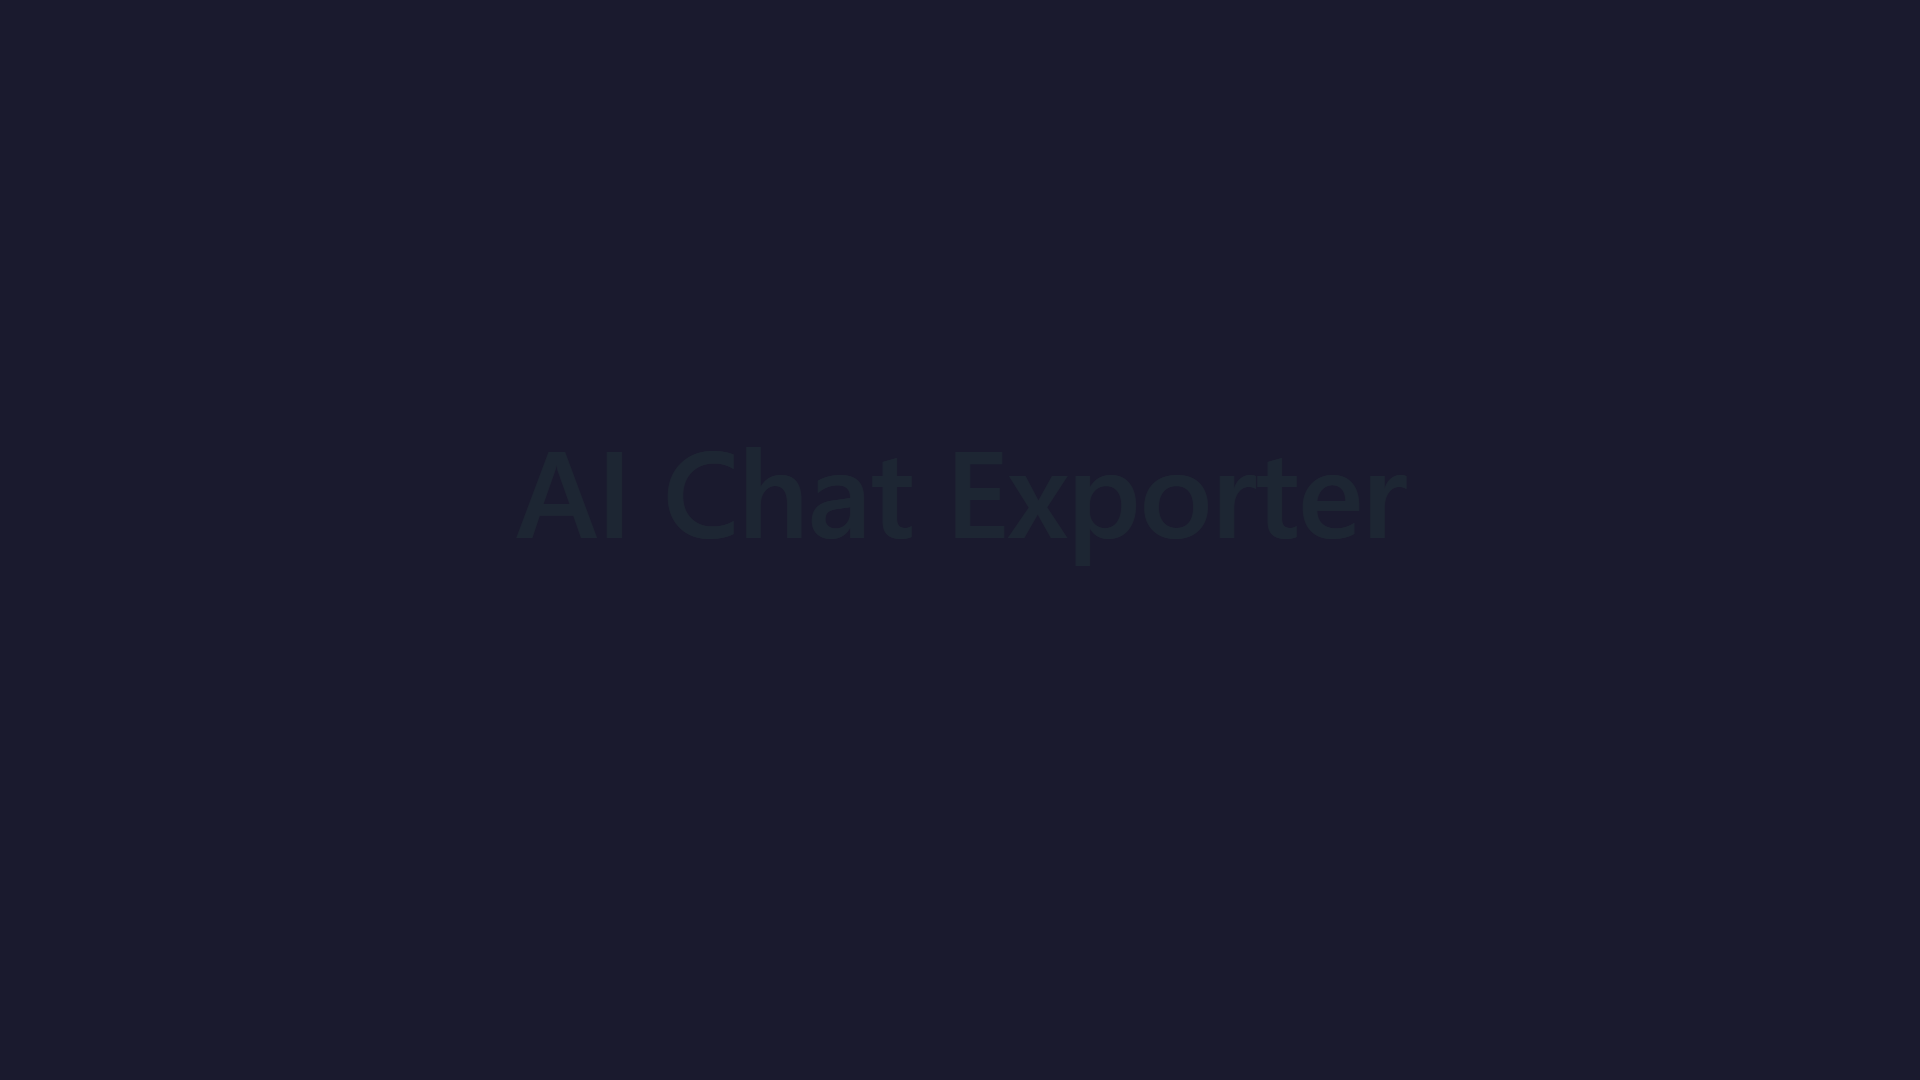
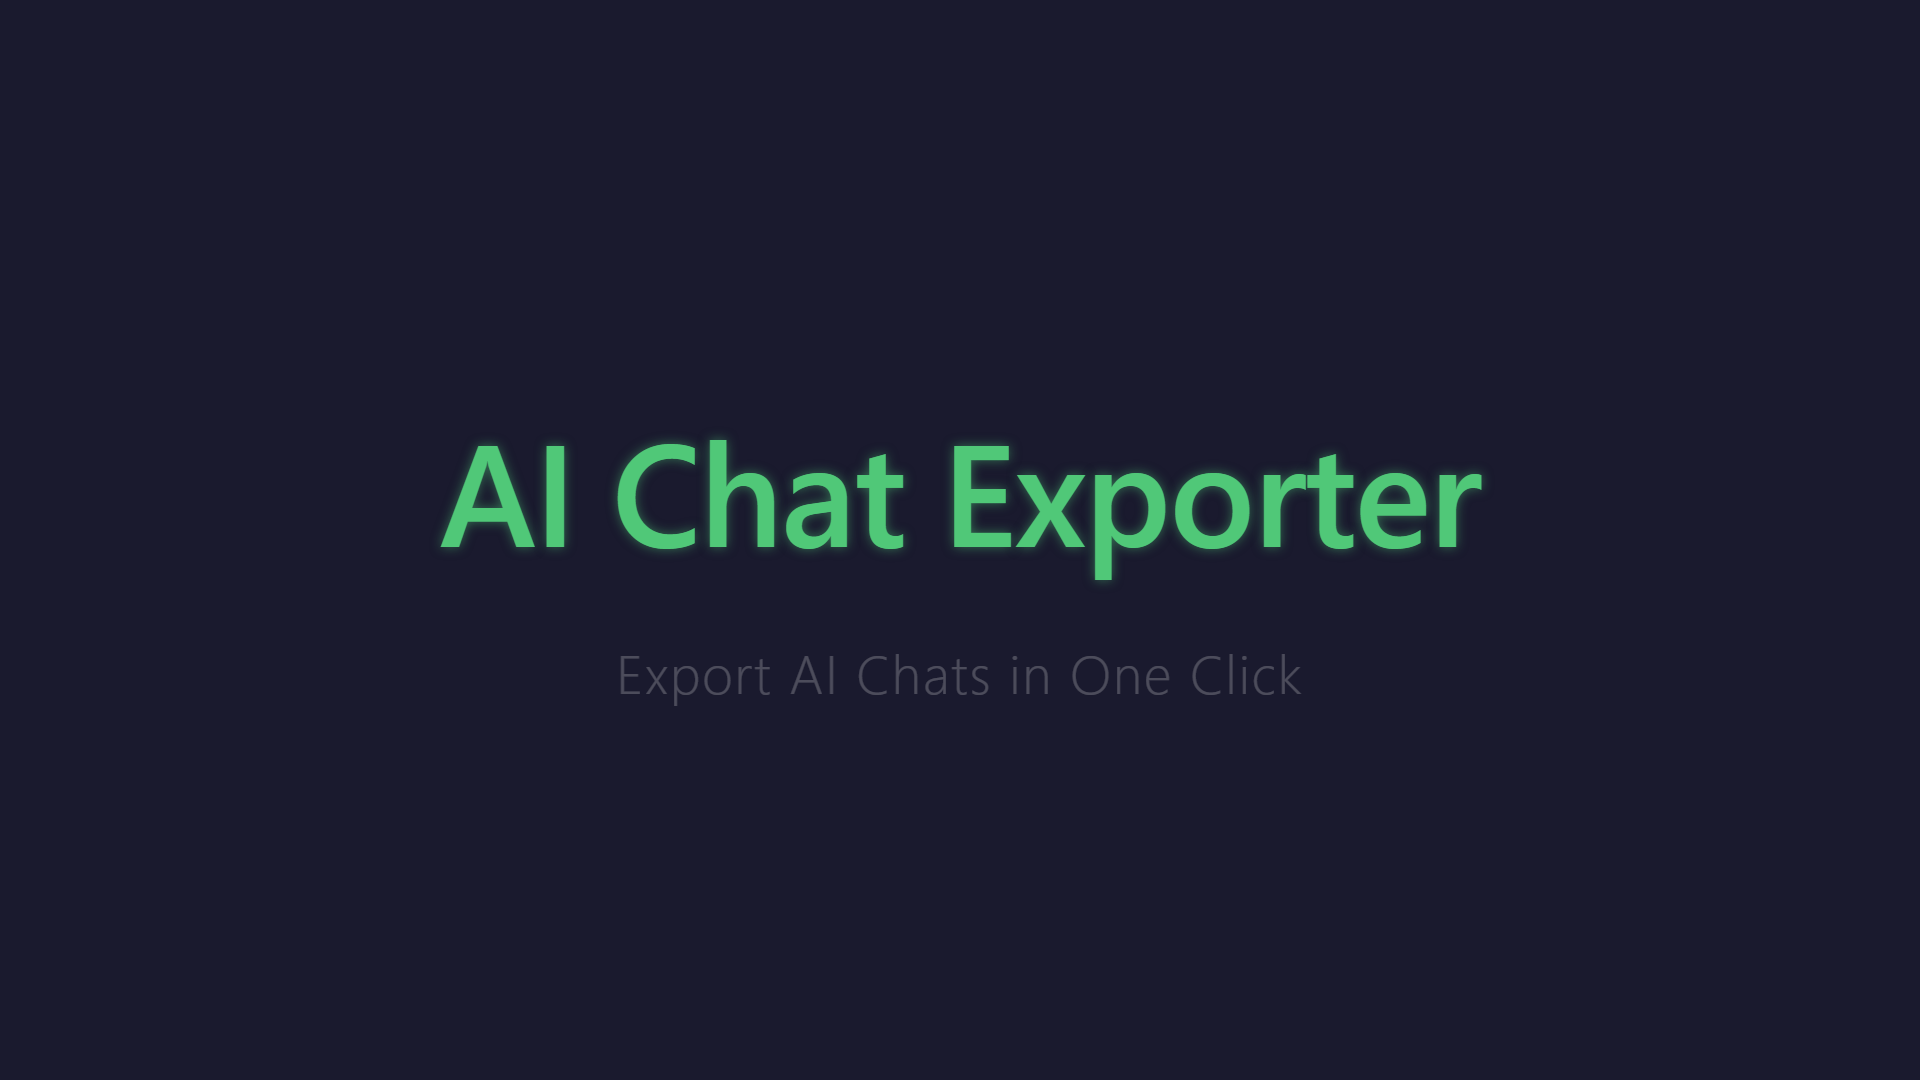
fix: subtitle single-line, poster images with title visible
- hero subtitle: max-width 600→780px, font-size 1rem→0.95rem, white-space:nowrap
  (wraps gracefully on mobile via @media max-width:820px)
- poster-en.png / poster-ja.png: re-exported at frame 30 (logo + subtitle fully visible)
- video tag: data-poster-en/ja attributes for JS lang-switch poster swap

Changed region(s): [[0.2188, 0.3972, 0.7812, 0.55], [0.3125, 0.6111, 0.6875, 0.6417]]

diff --git a/index.html b/index.html
@@ -135,11 +135,20 @@
     }
     .hero h1 .highlight { color: var(--accent); }
     .hero > p {
-      max-width: 600px;
+      max-width: 780px;
       margin: 0 auto 0.75rem;
       color: var(--text-dim);
-      font-size: 1rem;
+      font-size: 0.95rem;
       line-height: 1.5;
+      white-space: nowrap;
+      overflow: hidden;
+      text-overflow: ellipsis;
+    }
+    @media (max-width: 820px) {
+      .hero > p {
+        white-space: normal;
+        font-size: 0.875rem;
+      }
     }
     .btn-primary {
       display: inline-block;
@@ -336,7 +345,7 @@
   <h1 data-i18n-html="hero.h1"></h1>
   <p data-i18n="hero.sub"></p>
   <div class="hero-video-wrap">
-    <video id="hero-video" controls preload="metadata" poster="poster-en.png">
+    <video id="hero-video" controls preload="metadata" poster="poster-en.png" data-poster-en="poster-en.png" data-poster-ja="poster-ja.png">
       <source id="hero-video-src" src="ai-chat-exporter-en.mp4" type="video/mp4">
     </video>
   </div>
@@ -560,12 +569,14 @@
     document.getElementById('btn-ja').classList.toggle('active', lang === 'ja');
     // html lang attr
     document.documentElement.lang = lang;
-    // switch hero video
+    // switch hero video + poster
     const vid = document.getElementById('hero-video');
     if (vid) {
-      const newSrc = lang === 'ja' ? 'ai-chat-exporter-ja.mp4' : 'ai-chat-exporter-en.mp4';
+      const newSrc    = lang === 'ja' ? 'ai-chat-exporter-ja.mp4' : 'ai-chat-exporter-en.mp4';
+      const newPoster = lang === 'ja' ? vid.dataset.posterJa : vid.dataset.posterEn;
       if (!vid.src.endsWith(newSrc)) {
-        vid.src = newSrc;
+        vid.poster = newPoster;
+        vid.src    = newSrc;
         vid.load();
       }
     }
